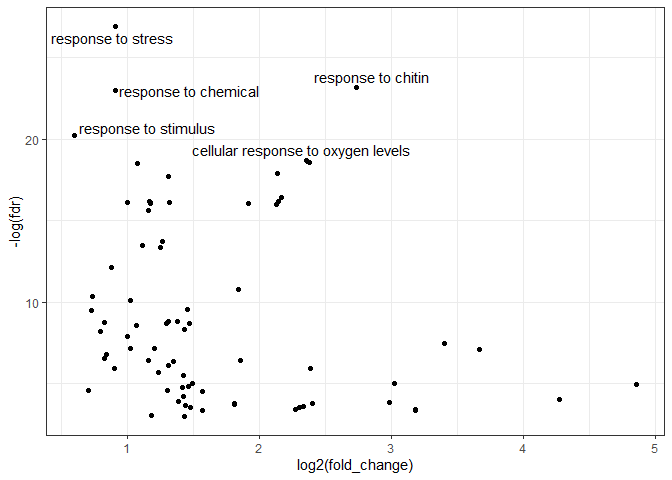
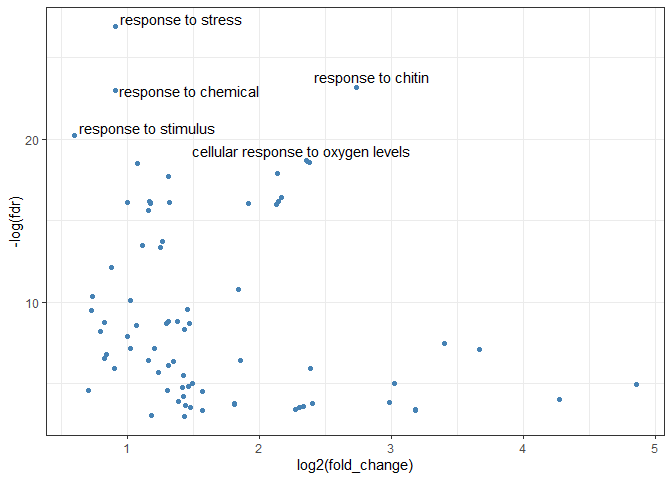
updated README

diff --git a/README.md b/README.md
@@ -46,7 +46,7 @@ volcano.p = volcanoracl(bp.df)
 
 # The plot `volcano.p` is a ggplot-object.
 # We can change its attributes!
-volcano.p + scale_colour_manual("lightred")
+volcano.p + scale_colour_manual(values = "steelblue")
 ```
 
 ![](README_files/figure-gfm/unnamed-chunk-2-1.png)<!-- -->
@@ -57,17 +57,44 @@ When several genesets should be inferred, it may be handy to combine
 overrepresented terms in one dataframe. This is especially useful for
 plotting.
 
-    ## [1] "[oraclient] Overrepresentation test. Ontology: bp, taxon: Athaliana, FISHER test and FDR correction. P-threshold is 0.05, FDR threshold is 0.05."
+``` r
+# obtain a list of genesets
+gs.ls <- list(
+    oracl:::GS01,
+    oracl:::GS02,
+    oracl:::GS03
+)
+
+# get background geneset
+bg <- oracl:::background
+
+# set names of list elements (vital for later)
+names(gs.ls) <- c("GS01", "GS02", "GS03")
+
+# get overrepresented GO-terms
+bp.ls = lapply(gs.ls, oraclient, 
+    bg = bg,
+    ont = "bp",
+    fdr.thresh = 0.05
+)
+```
 
     ## Joining, by = "GO_ID"
-
-    ## [1] "[oraclient] Overrepresentation test. Ontology: bp, taxon: Athaliana, FISHER test and FDR correction. P-threshold is 0.05, FDR threshold is 0.05."
-
+    ## Joining, by = "GO_ID"
     ## Joining, by = "GO_ID"
 
-    ## [1] "[oraclient] Overrepresentation test. Ontology: bp, taxon: Athaliana, FISHER test and FDR correction. P-threshold is 0.05, FDR threshold is 0.05."
+``` r
+# get ONE dataframe (ID-column `grouping` specifies the geneset)
+bp.df <- oracl_list_to_df(bp.ls)
+```
 
-    ## Joining, by = "GO_ID"
+### Make a facetted dotplot (One facet per group)
+
+``` r
+oraclot(bp.df, top_n = 20) + scale_color_viridis_c()
+```
+
+![](README_files/figure-gfm/unnamed-chunk-4-1.png)<!-- -->
 
 ## Limitations
 
